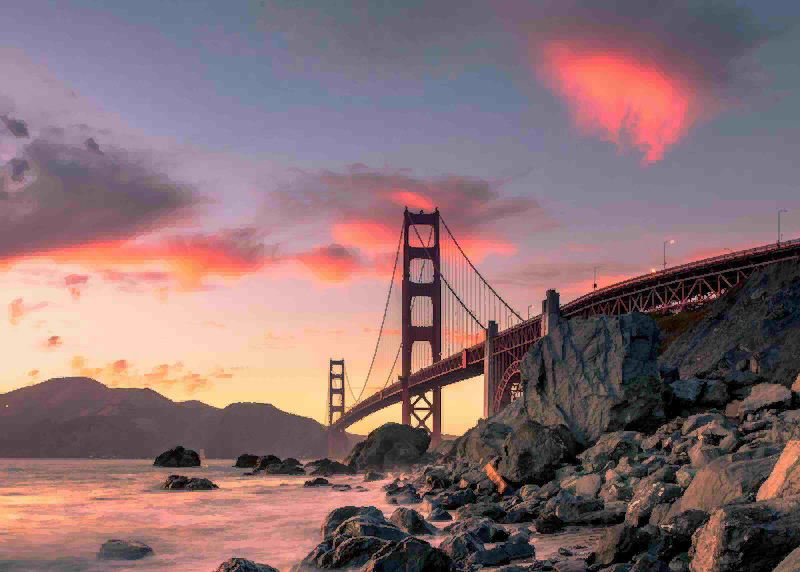
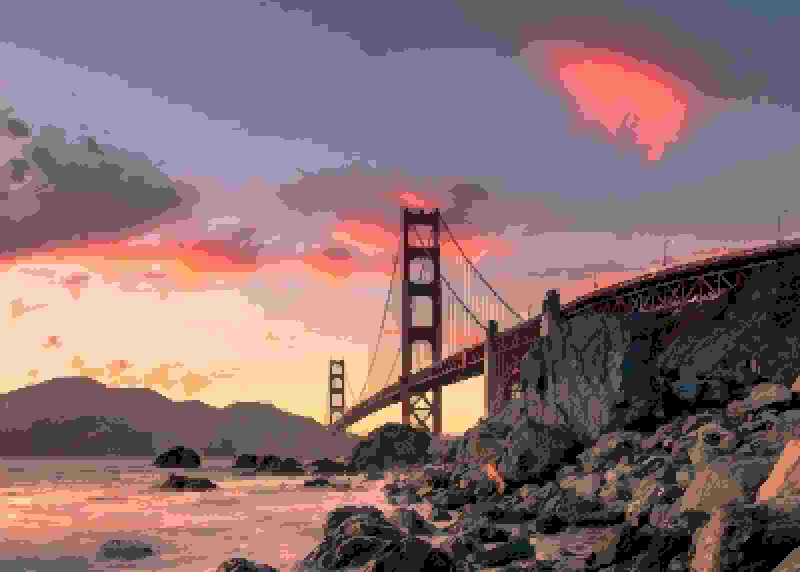
Reduce image size at quality zero

diff --git a/classic/encoder.go b/classic/encoder.go
@@ -131,6 +131,10 @@ func (e *Encoder) encodeChannelReuse(plane []uint8, stride, w4, h4, fullW, fullH
 	var blockCount uint32
 	height := h4
 	spread := allowedMacroSpreadForQuality(encQuality)
+	if encQuality == 0 {
+		// Every possible 8-bit spread fits; q0 uses the existing 8x8 blocks.
+		spread = 256
+	}
 
 	if useMacro && smallBlock == 1 && macroBlock == 2 {
 		// Specialized hot path for the most common setting (quality >= 80):
@@ -230,7 +234,7 @@ func (e *Encoder) encodeChannelReuse(plane []uint8, stride, w4, h4, fullW, fullH
 			useBig := useMacro && canUseBigBlockChannel(plane, stride, height, mx, my, spread)
 			sizeW.writeBit(useBig)
 			if useBig {
-				fg, bg, isPattern, err := encodeBlockPlane(plane, stride, height, mx, my, macroBlock, macroBlock, step, &patternW)
+				fg, bg, isPattern, err := encodeChannelBlock(plane, stride, height, mx, my, macroBlock, macroBlock, step, scratch.solid, &patternW)
 				if err != nil {
 					return 0, nil, nil, nil, nil, nil, err
 				}
@@ -250,7 +254,7 @@ func (e *Encoder) encodeChannelReuse(plane []uint8, stride, w4, h4, fullW, fullH
 						if smallBlock > 1 {
 							pw = &patternW
 						}
-						fg, bg, isPattern, err := encodeBlockPlane(plane, stride, height, xx, yy, smallBlock, smallBlock, step, pw)
+						fg, bg, isPattern, err := encodeChannelBlock(plane, stride, height, xx, yy, smallBlock, smallBlock, step, scratch.solid, pw)
 						if err != nil {
 							return 0, nil, nil, nil, nil, nil, err
 						}
@@ -273,7 +277,7 @@ func (e *Encoder) encodeChannelReuse(plane []uint8, stride, w4, h4, fullW, fullH
 			if smallBlock > 1 {
 				pw = &patternW
 			}
-			fg, bg, isPattern, err := encodeBlockPlane(plane, stride, height, mx, my, smallBlock, smallBlock, step, pw)
+			fg, bg, isPattern, err := encodeChannelBlock(plane, stride, height, mx, my, smallBlock, smallBlock, step, scratch.solid, pw)
 			if err != nil {
 				return 0, nil, nil, nil, nil, nil, err
 			}
@@ -292,7 +296,7 @@ func (e *Encoder) encodeChannelReuse(plane []uint8, stride, w4, h4, fullW, fullH
 			if smallBlock > 1 {
 				pw = &patternW
 			}
-			fg, bg, isPattern, err := encodeBlockPlane(plane, stride, height, mx, my, smallBlock, smallBlock, step, pw)
+			fg, bg, isPattern, err := encodeChannelBlock(plane, stride, height, mx, my, smallBlock, smallBlock, step, scratch.solid, pw)
 			if err != nil {
 				return 0, nil, nil, nil, nil, nil, err
 			}
@@ -331,6 +335,9 @@ func (e *Encoder) Encode(img image.Image, quality int, bwmode bool) ([]byte, err
 	e.ch[chY].quantStep = yStep
 	e.ch[chCb].quantStep = cStep
 	e.ch[chCr].quantStep = cStep
+	e.ch[chY].solid = false
+	e.ch[chCb].solid = encQuality == 0
+	e.ch[chCr].solid = encQuality == 0
 
 	e.ensurePlanes(w, h)
 	if encQuality == 100 {
@@ -341,6 +348,9 @@ func (e *Encoder) Encode(img image.Image, quality int, bwmode bool) ([]byte, err
 		extractYCbCrPlanesInto(img, e.yPlane, e.cbPlane, e.crPlane)
 	} else {
 		extractYCbCrPlanesIntoSerial(img, e.yPlane, e.cbPlane, e.crPlane)
+	}
+	if encQuality == 0 {
+		smoothLowQualityLuma(e.yPlane, w, h)
 	}
 
 	// Decide which channels will be stored. Y is always present; Cb/Cr

diff --git a/classic/common.go b/classic/common.go
@@ -1172,8 +1172,30 @@ func encodeBlockPlane(plane []uint8, stride, height, x0, y0, bw, bh, quantStep i
 	return fg, bg, true, nil
 }
 
+// encodeChannelBlock optionally replaces a block with its quantized average.
+// Quality 0 uses this for chroma: color detail is reduced without affecting
+// the existing block layout or the entropy coder.
+func encodeChannelBlock(plane []uint8, stride, height, x0, y0, bw, bh, step int, solid bool, pw *bitWriter) (uint8, uint8, bool, error) {
+	if !solid {
+		return encodeBlockPlane(plane, stride, height, x0, y0, bw, bh, step, pw)
+	}
+	if x0 < 0 || y0 < 0 || bw <= 0 || bh <= 0 || stride <= 0 || height <= 0 || x0+bw > stride || y0+bh > height || (y0+bh-1)*stride+x0+bw > len(plane) {
+		return 0, 0, false, fmt.Errorf("encodeChannelBlock: index out of range")
+	}
+	var sum int
+	for y := 0; y < bh; y++ {
+		row := (y0+y)*stride + x0
+		for x := 0; x < bw; x++ {
+			sum += int(plane[row+x])
+		}
+	}
+	v := quantizeLevel(uint8(sum/(bw*bh)), step)
+	return v, v, false, nil
+}
+
 type encoderChannelScratch struct {
 	quantStep  int
+	solid      bool
 	sizeBuf    bytes.Buffer
 	typeBuf    bytes.Buffer
 	patternBuf bytes.Buffer

diff --git a/classic/quality0_test.go b/classic/quality0_test.go
@@ -1,0 +1,47 @@
+package classic
+
+import (
+	"bytes"
+	"image"
+	_ "image/jpeg"
+	"os"
+	"testing"
+)
+
+func TestQualityZeroSmallerOnExample(t *testing.T) {
+	f, err := os.Open("../samples/source.jpg")
+	if err != nil {
+		t.Fatal(err)
+	}
+	img, _, err := image.Decode(f)
+	f.Close()
+	if err != nil {
+		t.Fatal(err)
+	}
+	e, d := NewEncoder(), NewDecoder()
+	defer d.zdec.Close()
+	atOne, err := e.Encode(img, 1, false)
+	if err != nil {
+		t.Fatal(err)
+	}
+	sizeOne := len(atOne)
+	baselineOne := bytes.Clone(atOne)
+	atZero, err := e.Encode(img, 0, false)
+	if err != nil {
+		t.Fatal(err)
+	}
+	if len(atZero)*2 >= sizeOne {
+		t.Fatalf("q0 = %d bytes, q1 = %d bytes: q0 did not achieve the expected reduction on the example", len(atZero), sizeOne)
+	}
+	decoded, err := d.Decode(atZero, false)
+	if err != nil {
+		t.Fatal(err)
+	}
+	if decoded.Bounds().Size() != img.Bounds().Size() {
+		t.Fatalf("decoded dimensions = %v, want %v", decoded.Bounds(), img.Bounds())
+	}
+	afterZero, err := e.Encode(img, 1, false)
+	if err != nil || !bytes.Equal(afterZero, baselineOne) {
+		t.Fatalf("q0 changed the next q1 encode: %v", err)
+	}
+}

diff --git a/classic/quality0.go b/classic/quality0.go
@@ -1,0 +1,14 @@
+package classic
+
+// smoothLowQualityLuma averages complete 2x2 groups before block coding. This
+// makes q0's two-tone masks coarser and cheaper; incomplete edge groups remain
+// unchanged. It is deliberately limited to q0.
+func smoothLowQualityLuma(plane []byte, w, h int) {
+	for y := 0; y+1 < h; y += 2 {
+		for x := 0; x+1 < w; x += 2 {
+			i := y*w + x
+			v := byte((int(plane[i]) + int(plane[i+1]) + int(plane[i+w]) + int(plane[i+w+1])) / 4)
+			plane[i], plane[i+1], plane[i+w], plane[i+w+1] = v, v, v, v
+		}
+	}
+}

diff --git a/classic/range_byte_test.go b/classic/range_byte_test.go
@@ -57,7 +57,7 @@ func TestQuadMeanExact(t *testing.T) {
 			}
 		}
 	}
-	for _, step := range []int{1, 2, 4, 8} {
+	for _, step := range []int{1, 2, 4, 8, 16, 32} {
 		for v := 0; v < 256; v++ {
 			want := uint8(min(255, (v+step/2)/step*step))
 			if quantizeLevel(uint8(v), step) != want {

diff --git a/classic/quantize.go b/classic/quantize.go
@@ -5,6 +5,8 @@ package classic
 // become solid blocks, so their pattern and background are never written.
 func quantStepsForQuality(quality int) (y, chroma int) {
 	switch {
+	case quality <= 0:
+		return 32, 16
 	case quality < 20:
 		return 4, 8
 	case quality < 60:

diff --git a/README.md b/README.md
@@ -33,7 +33,8 @@ At a high level, Babe is a block-based codec with a dual-tone model per block an
 4. **Block-level quantization**
    - Each block's foreground and background levels are rounded according to quality.
    - Chroma uses coarser steps than luma. If both levels become equal, the block is stored as solid, without a pattern or background value.
-   - Quantization steps for Y / Cb,Cr: quality 0–19: 4 / 8; 20–59: 2 / 4; 60–89: 1 / 2; 90–99: 1 / 1. Quality 100 uses no quantization or block approximation.
+   - Quantization steps for Y / Cb,Cr: quality 0: 32 / 16; 1–19: 4 / 8; 20–59: 2 / 4; 60–89: 1 / 2; 90–99: 1 / 1. Quality 100 uses no quantization or block approximation.
+   - At quality 0, 2×2 luma samples are averaged, 8×8 macroblocks are used wherever they fit, and chroma blocks are stored as solid colors. This produces much smaller files at the cost of visible detail and color precision.
    - At quality 100 opaque 8-bit RGB pixels are restored exactly. Transparency and 16-bit inputs are rejected in this mode. For JPEG input this means the decoded 8-bit RGB pixels, not the original JPEG bitstream or metadata. BW mode at quality 100 requires an already grayscale image.
 
 5. **Delta coding**
@@ -139,8 +140,8 @@ In-memory BABE encoder/decoder timings and size tradeoffs are recorded in [the s
 
 Measured on an Apple M3 with Go 1.27.3 using the local `benchmark.jpg`
 (5152×7728). Times are medians of three runs with two operations each, after
-warm-up. The BABE quality-100 measurements were refreshed after introducing
-lossless mode; other rows are from the earlier build. The same decoded RGBA image is fed to both encoders; image loading and
+warm-up. The BABE quality-100 and quality-0 measurements were refreshed after
+their respective changes; other rows are from the earlier build. The same decoded RGBA image is fed to both encoders; image loading and
 file I/O are excluded. Encoder buffers and BABE decoder buffers are reused.
 JPEG decoding returns Go's native YCbCr image, while BABE returns RGBA. Results
 vary with the image and machine load; the source image is itself a JPEG.
@@ -180,7 +181,7 @@ conditions:
 | 80 | 0.786 s | 0.278 s | 0.420 s | 0.296 s | 13.98 MB | 22.69 MB |
 | 50 | 0.533 s | 0.354 s | 0.242 s | 0.336 s | 5.30 MB | 17.47 MB |
 | 10 | 0.417 s | 0.249 s | 0.155 s | 0.135 s | 0.97 MB | 7.47 MB |
-| 0 | 0.398 s | 0.280 s | 0.148 s | 0.217 s | 0.67 MB | 6.48 MB |
+| 0 | 0.398 s | 0.200 s | 0.148 s | 0.112 s | 0.67 MB | 0.78 MB |
 
 Go's JPEG encoder clamps quality 0 to **1**. Equal quality numbers do not mean
 equal visual quality or equal file size; BABE quality 100 is lossless. MB is
@@ -202,7 +203,7 @@ core). Values are medians of three processes with two warmed operations each.
 | 10 | JPEG | 0.416 | 0.159 | 0.99 | 1.00 |
 | 10 | BABE | 0.574 | 0.333 | 2.19 | 2.37 |
 | 0 | JPEG | 0.469 | 0.154 | 0.83 | 0.98 |
-| 0 | BABE | 0.613 | 0.409 | 2.00 | 1.77 |
+| 0 | BABE | 0.396 | 0.256 | 2.14 | 2.39 |
 | Lossless | QOI (lossless) | 1.038 | 0.279 | 0.99 | 0.98 |
 
 Memory allocated during a warmed operation and peak resident memory of its
@@ -219,7 +220,7 @@ entire process, in MiB (1 MiB = 1,048,576 bytes):
 | 10 | JPEG | 0.00 | 56.98 | 443.7 | 121.3 |
 | 10 | BABE | 0.03 | 0.01 | 444.6 | 178.7 |
 | 0 | JPEG | 0.00 | 56.98 | 443.4 | 120.9 |
-| 0 | BABE | 0.03 | 0.01 | 443.9 | 174.9 |
+| 0 | BABE | 0.02 | 0.01 | 444.0 | 164.4 |
 | Lossless | QOI (lossless) | 303.77 | 151.89 | 656.2 | 385.9 |
 
 Allocation counts do **not** include retained buffers created during warm-up:
@@ -256,24 +257,16 @@ Quality 0 (Go's JPEG encoder uses quality 1, its minimum). Quality scales and
 quantization tables vary by encoder, so another application's minimum setting
 can produce a different image:
 
-| JPEG q1 — 9,256 bytes | BABE q0 — 60,738 bytes |
+| JPEG q1 — 9,256 bytes | BABE q0 — 8,843 bytes |
 |:---:|:---:|
 | [![JPEG quality 1](samples/jpeg-q0.jpg)](samples/jpeg-q0.jpg) | [![BABE quality 0](samples/babe-q0.png)](samples/babe-q0.png) |
-
-For a roughly equal-size comparison, JPEG at quality 73 uses 60,191 bytes,
-versus 60,738 bytes for BABE q0:
-
-| JPEG q73 — 60,191 bytes | BABE q0 — 60,738 bytes |
-|:---:|:---:|
-| [![JPEG quality 73](samples/jpeg-q73.jpg)](samples/jpeg-q73.jpg) | [![BABE quality 0](samples/babe-q0.png)](samples/babe-q0.png) |
 
 The JPEG images are the encoded JPEGs themselves. The BABE images are its
 decoded pixels saved losslessly for display; the stated BABE sizes are the
 `.babe` bitstreams, not the previews. RGB PSNR against the decoded source is
-35.40 / 40.18 dB for JPEG / BABE at q80, and 21.73 / 30.20 dB at minimum
-quality. On this source, BABE uses 2.98× as many bytes at q80 and 6.56× at q0.
-At approximately 60 KB, JPEG q73 reaches 34.24 dB versus BABE q0's 30.20 dB;
-PSNR is one measure and is not a complete measure of perceived quality. Equal
+35.40 / 40.18 dB for JPEG / BABE at q80, and 21.73 / 23.91 dB at minimum
+quality. On this source, BABE uses 2.98× as many bytes at q80 and 4.5% fewer at
+q0. PSNR is one measure and is not a complete measure of perceived quality. Equal
 numeric quality does not mean equal bitrate or perceived quality. The source
 was already JPEG-compressed.
 
@@ -282,8 +275,6 @@ Recreate the images and size/PSNR figures with:
 ```sh
 go run ./cmd/compareimages -input samples/source.jpg -out samples -quality 80
 go run ./cmd/compareimages -input samples/source.jpg -out samples -quality 0
-go run ./cmd/compareimages -input samples/source.jpg -out /tmp/comparison-q73 -quality 73
-cp /tmp/comparison-q73/jpeg-q73.jpg samples/
 ```
 
 ## License

diff --git a/docs/performance.md b/docs/performance.md
@@ -80,6 +80,21 @@ was 1,389,521 bytes; the lossless file is 36.8% larger in this example. Their
 decoded pixels differ: q100 matches the 8-bit RGB input exactly. These are
 measurements of the image codec only, not file I/O or source-image loading.
 
+Quality 0 was subsequently retuned to prioritize smaller files. The same
+decoded RGBA inputs produced these results; PSNR is relative to those inputs:
+
+| Image | BABE q0 before | BABE q0 after | JPEG q1 | BABE PSNR before → after | JPEG PSNR |
+|---|---:|---:|---:|---:|---:|
+| `1.jpg` (800×572) | 60,738 B | 8,843 B | 9,256 B | 30.20 → 23.91 dB | 21.73 dB |
+| `3.jpg` (1920×1080) | 300,102 B | 43,292 B | 41,913 B | 29.17 → 23.27 dB | 20.66 dB |
+
+The lower quality is intentional. JPEG quality 0 is clamped to 1 by Go, and
+its scale does not correspond to BABE's quality scale. These two images do not
+guarantee a size or visual-quality result on other inputs. The new q0 files use
+the existing BRC1 format and were decoded with the previous BABE decoder.
+Checked qualities 1, 2, 10, 20, 50, 80, 99 and 100 produced byte-identical
+files before and after the q0 change on `1.jpg`.
+
 ## Entropy coder alone
 
 The same uncompressed streams extracted from `3.jpg` are processed serially by
@@ -106,8 +121,9 @@ time comparison. Measurements were made on Apple M3, darwin/arm64, Go 1.27.3,
 `GOMAXPROCS=8`, using three separate processes per case with two timed, warmed
 operations in each. Execution order was shuffled. The tables use medians of
 the three process results. The [original individual measurements](benchmarks/resources-apple-m3.json)
-are retained; the README's q100 BABE row uses the separate
-[lossless q100 measurements](benchmarks/resources-lossless100-apple-m3.json).
+are retained; the README's BABE rows use the separate
+[lossless q100](benchmarks/resources-lossless100-apple-m3.json) and
+[retuned q0](benchmarks/resources-quality0-apple-m3.json) measurements.
 
 CPU time is the change in process user plus system CPU time, including all Go
 threads and any GC work during the interval. Cores is CPU time divided by wall
@@ -159,8 +175,8 @@ The README retains the JPEG/BABE/QOI comparison on `benchmark.jpg`, quality 80
 for JPEG and BABE, QOI lossless, and adds JPEG/BABE at qualities 0, 10, 50, 80
 and 100. Those numbers are medians of three runs with two operations per run
 using `BenchmarkQualityComparison`; JPEG quality 0 is clamped to 1. The BABE
-q100 speed and resource numbers were remeasured separately with lossless mode;
-other rows are from v0.2.1. The table
+q100 and q0 speed and resource numbers were remeasured separately after their
+respective changes; other rows are from v0.2.1. The table
 reports encode and decode medians separately. A previous single-run README
 measurement reported 8.638 s for JPEG encoding and 16.948 s for QOI encoding,
 despite neither codec receiving comparable optimization here. That run cannot

diff --git a/docs/BRC1.md b/docs/BRC1.md
@@ -110,12 +110,17 @@ multiple of the step, with half steps rounded upward and values clamped to 255:
 
 | Quality | Y step | Cb/Cr step |
 |---|---:|---:|
-| 0–19 | 4 | 8 |
+| 0 | 32 | 16 |
+| 1–19 | 4 | 8 |
 | 20–59 | 2 | 4 |
 | 60–89 | 1 | 2 |
 | 90–99 | 1 | 1 |
 
-Thresholds and block subdivision decisions use the original input precision.
+At quality 0 the encoder averages complete 2×2 groups in the luma plane,
+always selects the 8×8 macroblock in the main image area, and stores each
+chroma block as its quantized average. Image edges use the existing 4×4 blocks.
+These are encoder choices within the existing block format. For qualities
+1–99, thresholds and block subdivision decisions use the original input precision.
 If both rounded levels are equal, the block becomes solid; no pattern bits or
 background entry are emitted. BW stores only Y. At qualities below 90 the decoded
 image can differ from previous builds at the same numeric quality. Entropy coding
